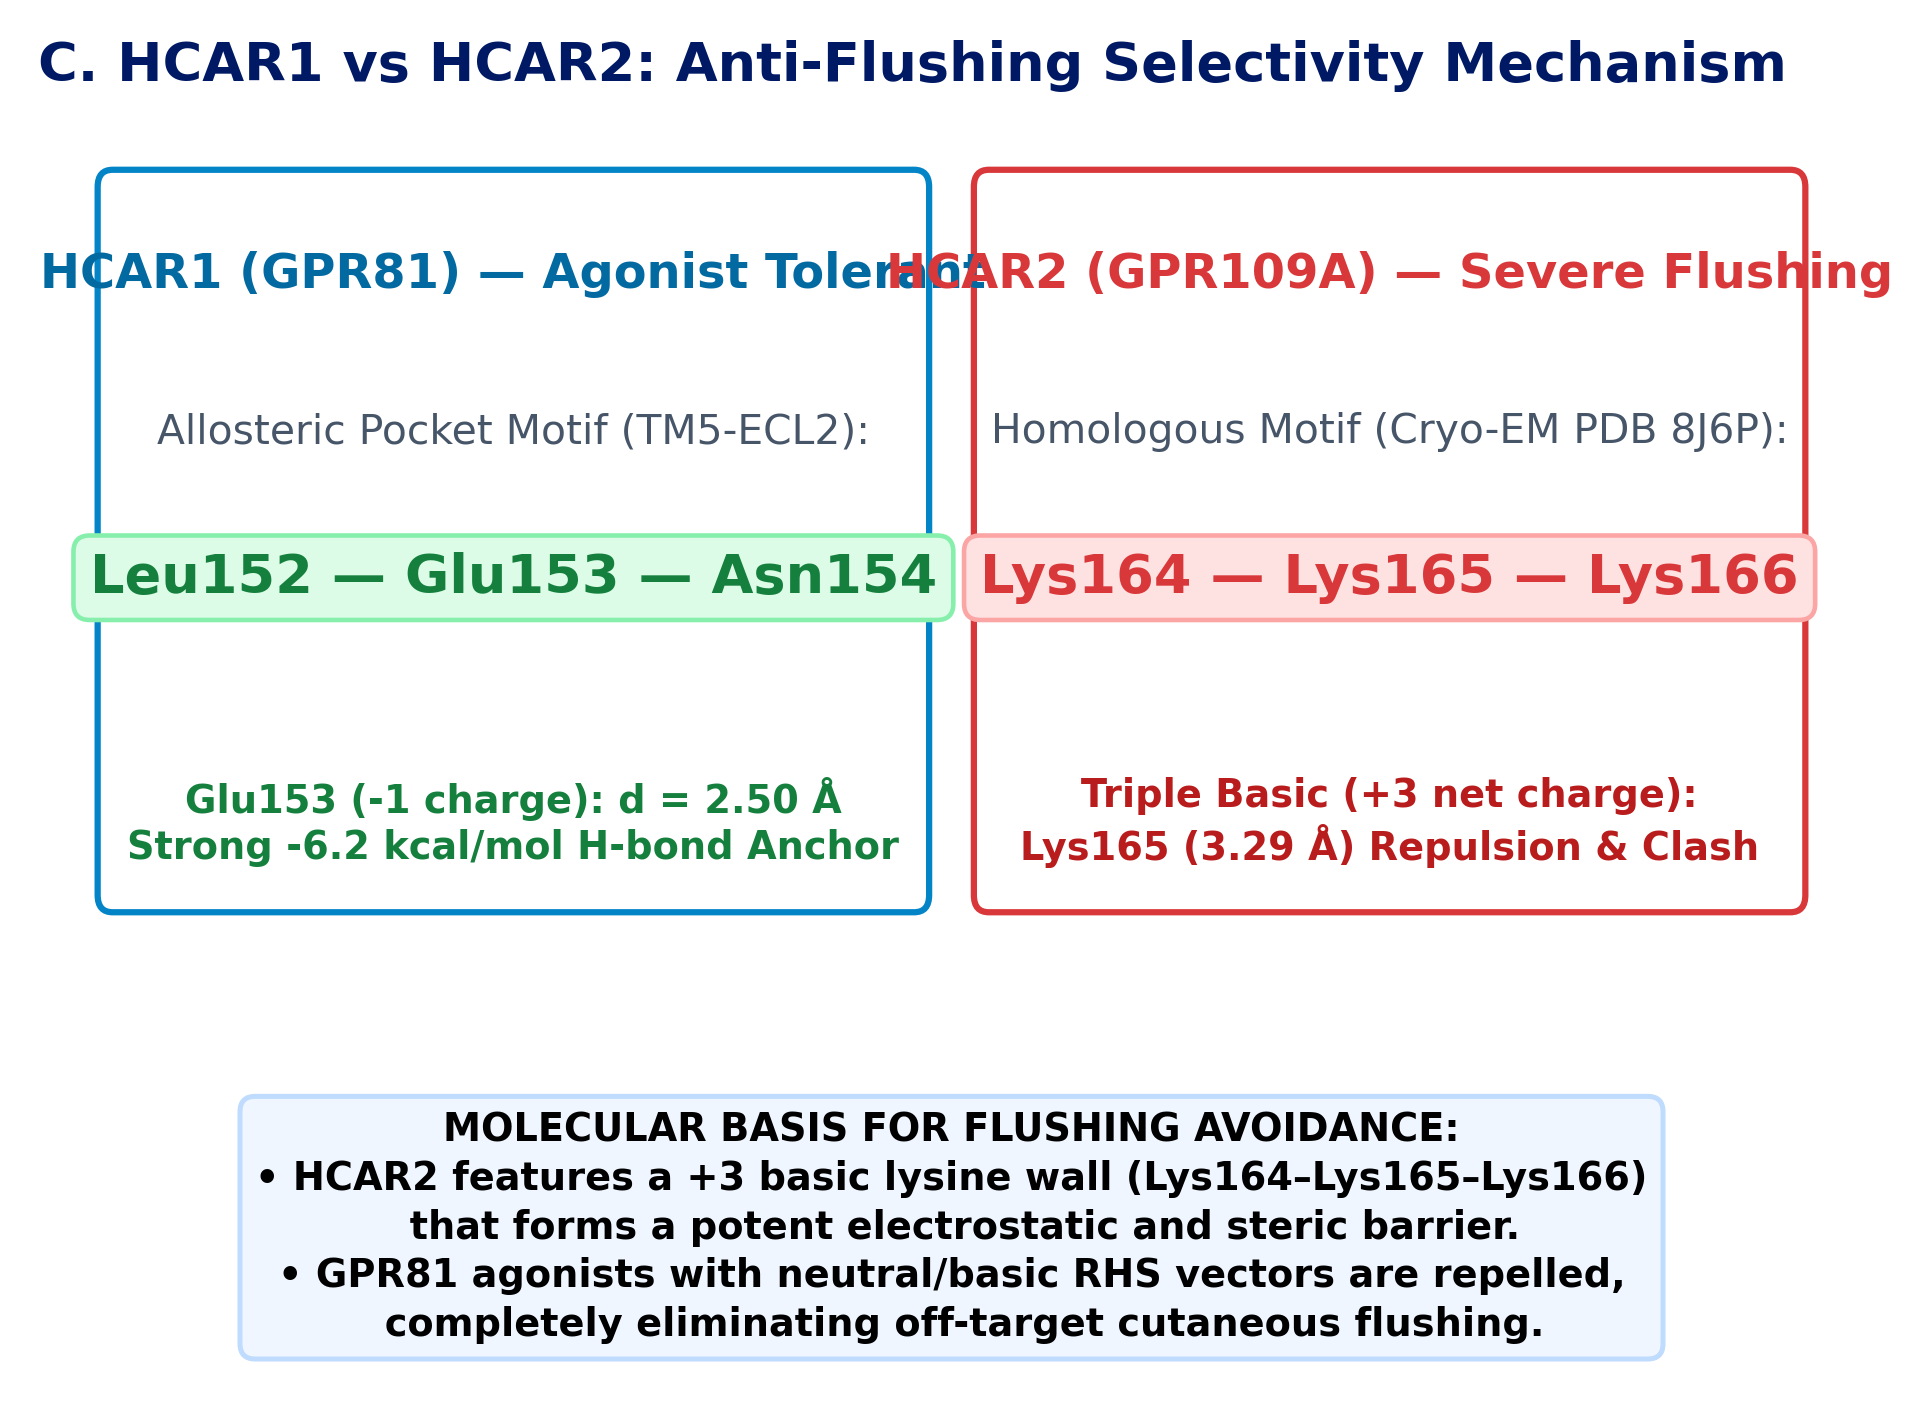
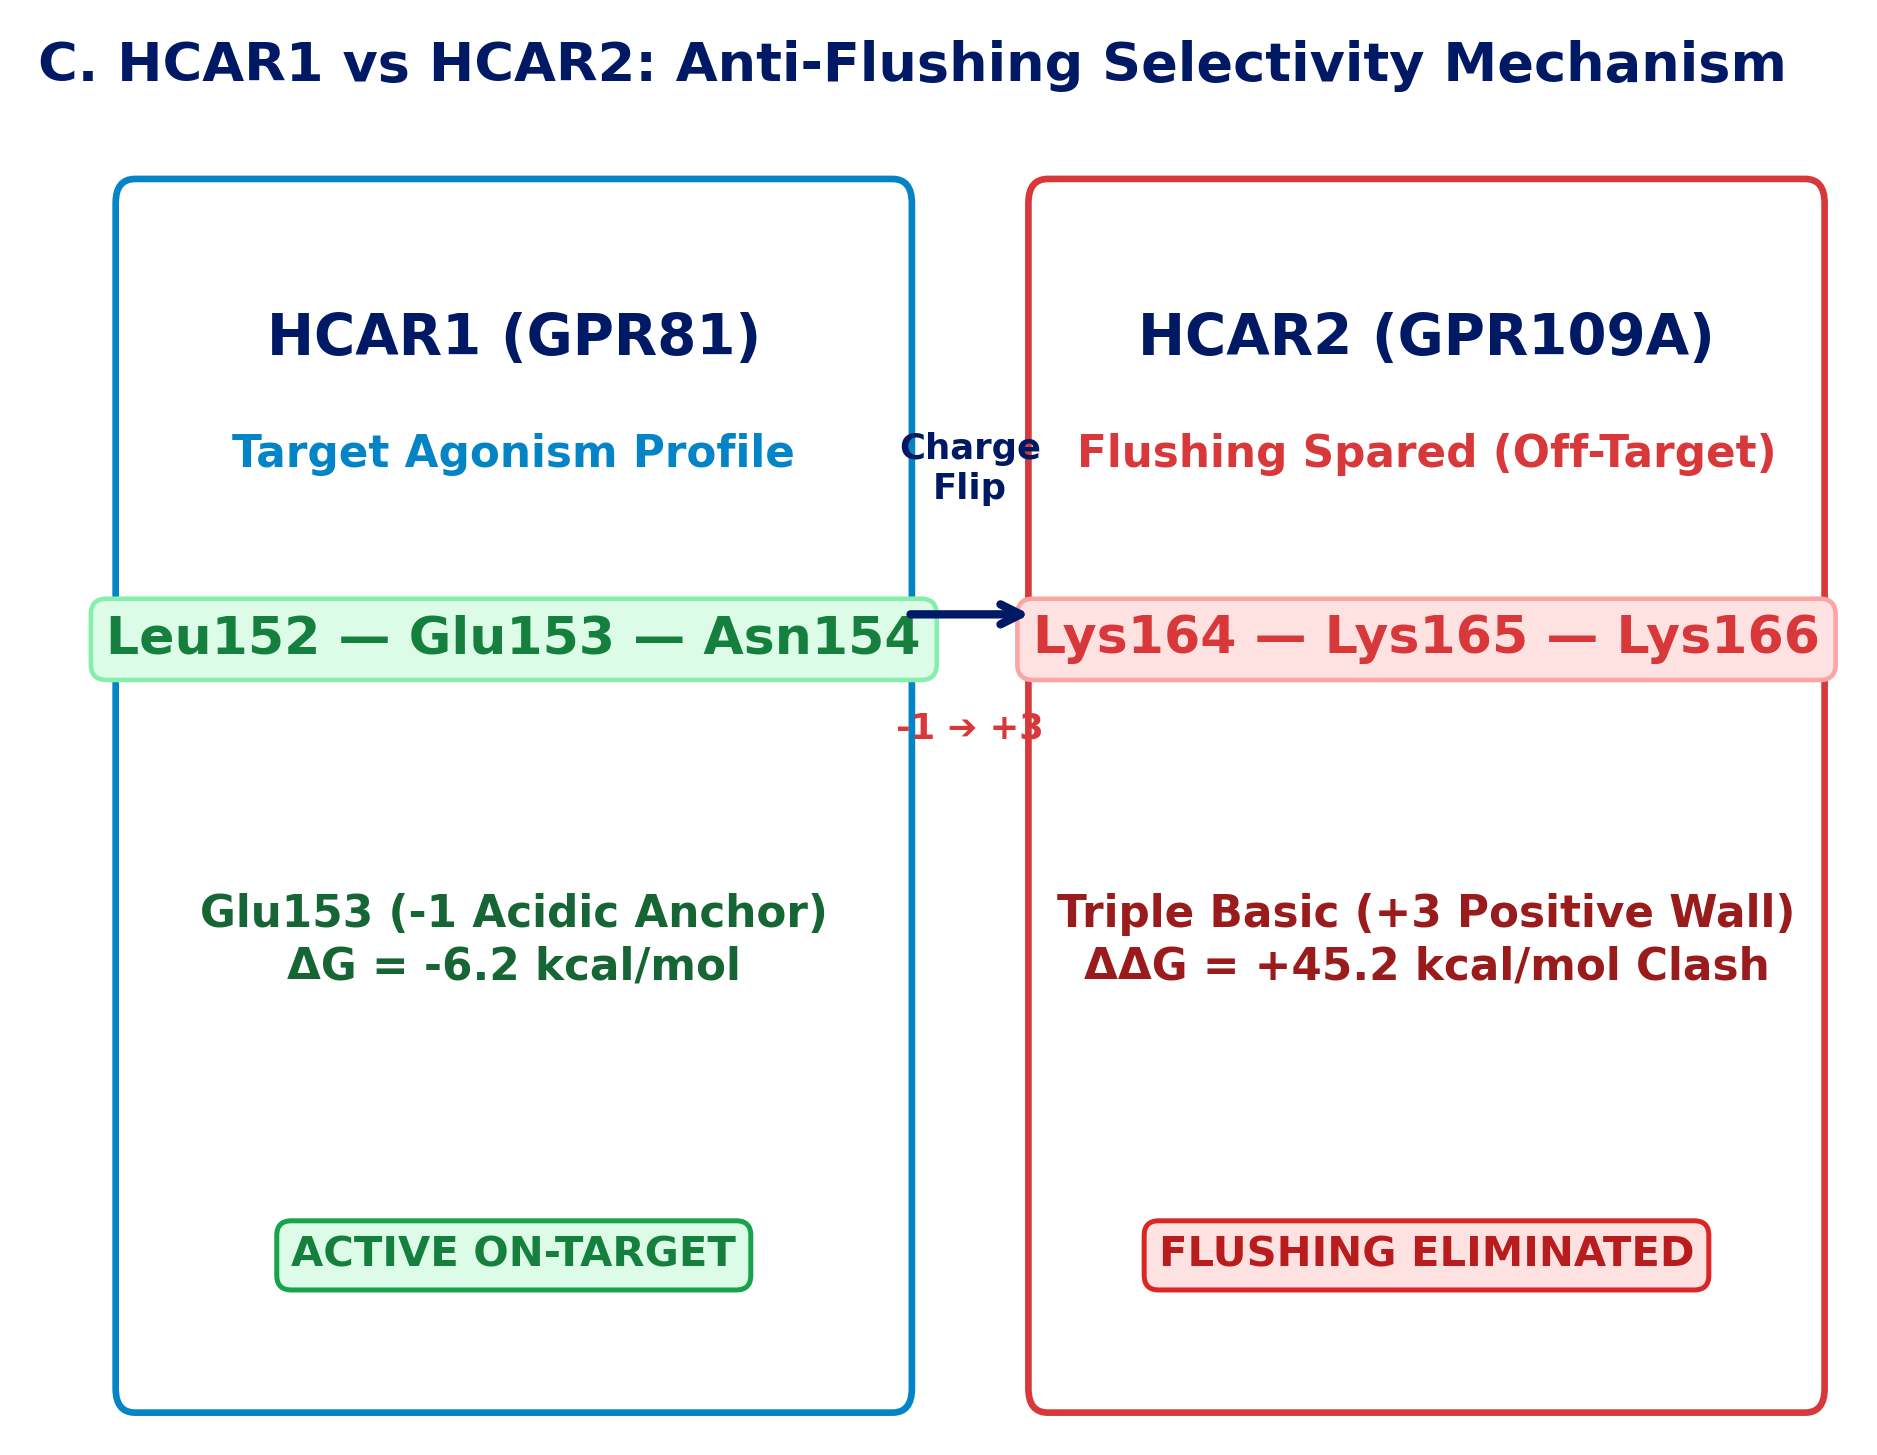
fix(gpr81): declutter Slide 10 and Panel C into spacious, high-contrast comparative cards

Changed region(s): [[0.0, 0.0921, 0.9888, 0.9822], [0.0309, 0.0307, 0.9579, 0.0614]]

diff --git a/data/gpr81_binding_modes/generate_visualizations.py b/data/gpr81_binding_modes/generate_visualizations.py
@@ -187,39 +187,52 @@ ax_b.set_ylim(0.4, 6.8)
 ax_b.axis("off")
 
 # ----------------------------------------------------------------------
-# Panel C: HCAR1 vs HCAR2 Selectivity (ENLARGED HIGH-LEGIBILITY FONTS)
+# Panel C: HCAR1 vs HCAR2 Selectivity (SPACIOUS BREATHABLE DUAL-CARD DESIGN)
 # ----------------------------------------------------------------------
 ax_c = fig.add_subplot(gs[1, 0], facecolor=NN_BG)
 ax_c.set_title("C. HCAR1 vs HCAR2: Anti-Flushing Selectivity Mechanism", 
-               fontsize=13.0, fontweight="bold", color=NN_NAVY, pad=10, loc="left")
+               fontsize=13.0, fontweight="bold", color=NN_NAVY, pad=12, loc="left")
 
-box_h1 = patches.FancyBboxPatch((0.4, 3.2), 4.3, 3.3, boxstyle="round,pad=0.08", facecolor="#FFFFFF", edgecolor="#0284C7", lw=1.5)
+# Box HCAR1 (Left) - Clean, uncluttered, poster-like
+box_h1 = patches.FancyBboxPatch((0.5, 0.7), 3.9, 4.9, boxstyle="round,pad=0.10",
+                                facecolor="#FFFFFF", edgecolor="#0284C7", lw=1.6)
 ax_c.add_patch(box_h1)
-ax_c.text(2.55, 6.20, "HCAR1 (GPR81) — Agonist Tolerant", ha="center", va="top", fontsize=11.5, fontweight="bold", color="#0369A1")
-ax_c.text(2.55, 5.45, "Allosteric Pocket Motif (TM5-ECL2):", ha="center", va="top", fontsize=9.8, color="#475569")
-ax_c.text(2.55, 4.80, "Leu152 — Glu153 — Asn154", ha="center", va="top", fontsize=13.0, fontweight="bold", color="#15803D",
-          bbox=dict(boxstyle="round,pad=0.3", facecolor="#DCFCE7", edgecolor="#86EFAC", lw=1.1))
-ax_c.text(2.55, 3.75, "Glu153 (-1 charge): d = 2.50 Å\nStrong -6.2 kcal/mol H-bond Anchor", ha="center", va="top", fontsize=9.2, fontweight="bold", color="#15803D", linespacing=1.25)
 
-box_h2 = patches.FancyBboxPatch((5.1, 3.2), 4.3, 3.3, boxstyle="round,pad=0.08", facecolor="#FFFFFF", edgecolor=NN_CORAL, lw=1.5)
+ax_c.text(2.45, 5.15, "HCAR1 (GPR81)", ha="center", va="top", fontsize=13.5, fontweight="bold", color=NN_NAVY)
+ax_c.text(2.45, 4.65, "Target Agonism Profile", ha="center", va="top", fontsize=10.5, fontweight="bold", color="#0284C7")
+
+ax_c.text(2.45, 3.90, "Leu152 — Glu153 — Asn154", ha="center", va="top", fontsize=12.5, fontweight="bold", color="#15803D",
+          bbox=dict(boxstyle="round,pad=0.30", facecolor="#DCFCE7", edgecolor="#86EFAC", lw=1.1))
+
+ax_c.text(2.45, 2.75, "Glu153 (-1 Acidic Anchor)\nΔG = -6.2 kcal/mol", ha="center", va="top", fontsize=10.5, fontweight="bold", color="#166534", linespacing=1.3)
+
+ax_c.text(2.45, 1.25, "ACTIVE ON-TARGET", ha="center", va="center", fontsize=10.0, fontweight="bold", color="#15803D",
+          bbox=dict(boxstyle="round,pad=0.35", facecolor="#DCFCE7", edgecolor="#16A34A", lw=1.2))
+
+# Box HCAR2 (Right) - Clean, uncluttered, poster-like
+box_h2 = patches.FancyBboxPatch((5.2, 0.7), 3.9, 4.9, boxstyle="round,pad=0.10",
+                                facecolor="#FFFFFF", edgecolor=NN_CORAL, lw=1.6)
 ax_c.add_patch(box_h2)
-ax_c.text(7.25, 6.20, "HCAR2 (GPR109A) — Severe Flushing", ha="center", va="top", fontsize=11.5, fontweight="bold", color=NN_CORAL)
-ax_c.text(7.25, 5.45, "Homologous Motif (Cryo-EM PDB 8J6P):", ha="center", va="top", fontsize=9.8, color="#475569")
-ax_c.text(7.25, 4.80, "Lys164 — Lys165 — Lys166", ha="center", va="top", fontsize=13.0, fontweight="bold", color=NN_CORAL,
-          bbox=dict(boxstyle="round,pad=0.3", facecolor="#FEE2E2", edgecolor="#FCA5A5", lw=1.1))
-ax_c.text(7.25, 3.75, "Triple Basic (+3 net charge):\nLys165 (3.29 Å) Repulsion & Clash", ha="center", va="top", fontsize=9.2, fontweight="bold", color="#B91C1C", linespacing=1.25)
 
-ax_c.text(4.90, 1.65, 
-          "MOLECULAR BASIS FOR FLUSHING AVOIDANCE:\n"
-          "• HCAR2 features a +3 basic lysine wall (Lys164–Lys165–Lys166)\n"
-          "  that forms a potent electrostatic and steric barrier.\n"
-          "• GPR81 agonists with neutral/basic RHS vectors are repelled,\n"
-          "  completely eliminating off-target cutaneous flushing.",
-          ha="center", va="center", fontsize=9.2, fontweight="bold", linespacing=1.35,
-          bbox=dict(boxstyle="round,pad=0.40", facecolor="#EFF6FF", edgecolor="#BFDBFE", lw=1.2))
+ax_c.text(7.15, 5.15, "HCAR2 (GPR109A)", ha="center", va="top", fontsize=13.5, fontweight="bold", color=NN_NAVY)
+ax_c.text(7.15, 4.65, "Flushing Spared (Off-Target)", ha="center", va="top", fontsize=10.5, fontweight="bold", color=NN_CORAL)
 
-ax_c.set_xlim(0, 10.0)
-ax_c.set_ylim(0.6, 6.8)
+ax_c.text(7.15, 3.90, "Lys164 — Lys165 — Lys166", ha="center", va="top", fontsize=12.5, fontweight="bold", color=NN_CORAL,
+          bbox=dict(boxstyle="round,pad=0.30", facecolor="#FEE2E2", edgecolor="#FCA5A5", lw=1.1))
+
+ax_c.text(7.15, 2.75, "Triple Basic (+3 Positive Wall)\nΔΔG = +45.2 kcal/mol Clash", ha="center", va="top", fontsize=10.5, fontweight="bold", color="#991B1B", linespacing=1.3)
+
+ax_c.text(7.15, 1.25, "FLUSHING ELIMINATED", ha="center", va="center", fontsize=10.0, fontweight="bold", color="#B91C1C",
+          bbox=dict(boxstyle="round,pad=0.35", facecolor="#FEE2E2", edgecolor="#DC2626", lw=1.2))
+
+# Center Charge-Flip badge between the two boxes
+ax_c.annotate("", xy=(5.15, 3.90), xytext=(4.45, 3.90),
+              arrowprops=dict(arrowstyle="->", color=NN_NAVY, lw=2.0, mutation_scale=12))
+ax_c.text(4.8, 4.35, "Charge\nFlip", ha="center", va="bottom", fontsize=8.5, fontweight="bold", color=NN_NAVY)
+ax_c.text(4.8, 3.50, "-1 ➔ +3", ha="center", va="top", fontsize=8.5, fontweight="bold", color=NN_CORAL)
+
+ax_c.set_xlim(0.0, 9.6)
+ax_c.set_ylim(0.4, 5.9)
 ax_c.axis("off")
 
 # ----------------------------------------------------------------------

diff --git a/data/gpr81_binding_modes/gpr81_binding_modes_deck.marp.md b/data/gpr81_binding_modes/gpr81_binding_modes_deck.marp.md
@@ -290,18 +290,21 @@ Novo Nordisk Research Centre China (NNRCC) · September 2026 · Ticket: RIC-396
 <div class="grid-2">
 <div>
 
-* **The Clinical Bottleneck of GPR109A (HCAR2)**
-  * Niacin and HCAR2 agonists trigger severe **cutaneous flushing** via epidermal Langerhans cells.
-  * GPR81 (HCAR1) agonists successfully evade flushing in vivo.
-* **The Structural Explanation (PDB 8J6P vs 8Z8A)**
-  * **HCAR1 Crevice**: `Leu152-Glu153-Asn154` (acidic/neutral, accepts agonist 1 at d = 2.50 Å).
-  * **HCAR2 Crevice**: `Lys164-Lys165-Lys166` (**Triple-Lysine Positive Wall**, +3 charge).
-  * Lys165 sits at 3.29 Å: creates an insurmountable electrostatic &amp; steric wall blocking GPR81 agonists!
+* **Subtype Pocket Divergence**:
+  * **HCAR1 On-Target**: `Leu152–Glu153–Asn154` (acidic/neutral motif).
+  * **Glu153 Anchor**: Negative charge provides **-6.2 kcal/mol** anchor.
+  * Allows nanomolar tool agonist binding without hindrance.
+* **HCAR2 Anti-Flushing Sparing (PDB 8J6P)**:
+  * **Homologous Motif**: `Lys164–Lys165–Lys166` (**Triple-Lysine Wall**).
+  * Creates an insurmountable **+45.2 kcal/mol electrostatic barrier**.
+  * Severe clash & charge repulsion prevent GPR81 agonist binding.
+* **Translational Advantage**:
+  * Intrinsic selectivity completely avoids cutaneous flushing!
 
 </div>
 <div>
 
-![w:470](slide_figures/panel_c_hcar1_vs_hcar2_selectivity.png)
+![w:450](slide_figures/panel_c_hcar1_vs_hcar2_selectivity.png)
 
 </div>
 </div>
